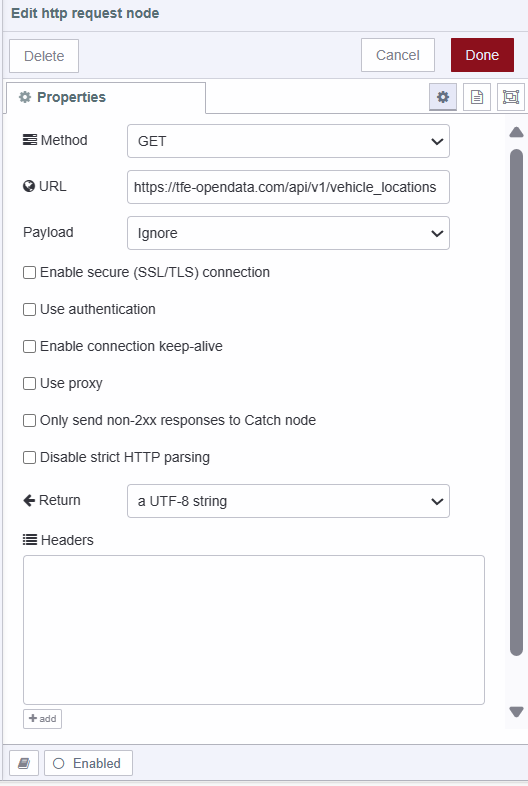
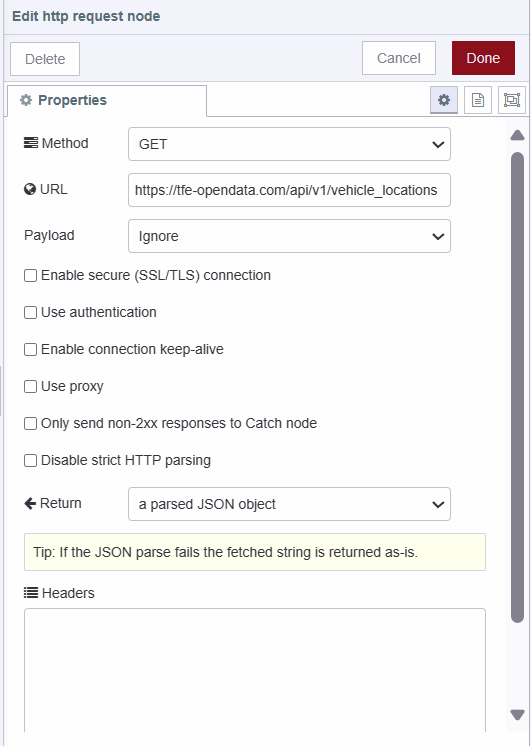
blog: mapping location on dashboard 2.0

Changed region(s): [[0.0, 0.0, 1.0, 1.0], [0.7879, 0.6166, 0.8485, 0.7091], [0.9091, 0.9249, 0.9394, 0.9558]]

diff --git a/src/blog/2024/05/mapping-location-on-dashboard-2.md b/src/blog/2024/05/mapping-location-on-dashboard-2.md
@@ -33,7 +33,7 @@ To render an interactive world map webpage for plotting location data, we will u
 Before plotting locations, we need to obtain the data first. For this purpose, we will utilize the [Edenburg Open Public Transportation API](https://tfe-opendata.readme.io/docs/getting-started). This API provides the live locations of all of Edenburg's public buses and trams, enabling us to access the necessary data for plotting on Worldmap within Dashboard 2.0.
 
 1. Drag an **Inject** node onto the canvas and set the repeat property to a 20-second interval.
-2. Drag an **HTTP request** node onto the canvas, select the **GET** method, and enter `https://tfe-opendata.com/api/v1/vehicle_locations` in the URL field. Since this API is open to all, we don't need to use environment variables. However, for private APIs, it's recommended to use [environment variables](/blog/2023/01/environment-variables-in-node-red) for added security.
+2. Drag an HTTP request node onto the canvas, Dobule-click on it and choose **GET** method, and enter `https://tfe-opendata.com/api/v1/vehicle_locations` in the URL field and select return  as **a parsed json object**. This API is public, so no need for environment variables. For private APIs, consider using [environment variables](/blog/2023/01/environment-variables-in-node-red) for security.
 
 !["Screenshot of the HTTP request node configuration for retrieving data from the API"](./images/mapping-location-on-dashboard-2-http-request-node.png "Screenshot of the HTTP request node configuration for retrieving data from the API"){data-zoomable}
 
@@ -41,17 +41,13 @@ Before plotting locations, we need to obtain the data first. For this purpose, w
 
 ## Formatting Location Data
 
-The public URL we are using returns an array of JSON in string format. We need to parse that JSON array before using it. Additionally, we need to format the data to ensure that we are passing it in the correct format, as the Worldmap custom node requires.
+To ensure compatibility with the Worldmap custom node, we need to format the location data appropriately. 
 
-1. Drag a **JSON** node onto the canvas, and select Action to **Always convert to a javascript object**.
-
-!["Screenshot of the JSON node configuration for parsing string JSON"](./images/mapping-location-on-dashboard-2-json-node.png "Screenshot of the JSON node configuration for parsing string JSON"){data-zoomable}
-
-2. Drag the **Change** node onto the canvas, and set the `msg.payload` to `msg.payload.vehicles`.
+1. Drag the **Change** node onto the canvas, and set the `msg.payload` to `msg.payload.vehicles`.
 
 !["Screenshot of the Change node setting the payload to the vehicles JSON array containing actual vehicle location data"](./images/mapping-location-on-dashboard-2-change-node.png "Screenshot of the Change node setting the payload to the vehicles JSON array containing actual vehicle location data"){data-zoomable}
 
-3. Drag a **Function** node onto the canvas and paste the following code into it.
+2. Drag a **Function** node onto the canvas and paste the following code into it.
 
 ```javascript
 // Extract the payload data from the message
@@ -85,11 +81,11 @@ msg.payload = data;
 return msg;
 ```
 
-4. Connect **JSON** node's output to the **Change** node's input and **Change** the node's output to the **Function** node's input.
+3. Connect **http-request** node's output to the **Change** node's input and the **Change** node's output to the **Function** node's input.
 
 ## Plotting location data on Worldmap
 
-1. Drag a **Worldmap** node onto the canvas. Set the path to "/worldmap" and keep the rest of the settings unchanged, although you can modify other properties according to your preferences.
+1. Drag a **Worldmap** node onto the canvas. Set the path to **/worldmap** and keep the rest of the settings unchanged, although you can modify other properties according to your preferences.
 
 !["Screenshot displaying the configuration of the Worldmap custom node"](./images/mapping-location-on-dashboard-2-worldmap-node.png "Screenshot displaying the configuration of the Worldmap custom node"){data-zoomable}
 
@@ -121,8 +117,7 @@ return msg;
 !["Image displaying live locations of UK public transport on the dashboard"](./images/mapping-location-on-dashboard-2-uk-live-transport.gif "Image displaying live locations of UK public transport on the dashboard"){data-zoomable}
 
 {% renderFlow %}
-[{"id":"0ce7f9f7fca1195d","type":"group","z":"eacc68e72f120b0e","style":{"stroke":"#b2b3bd","stroke-opacity":"1","fill":"#f2f3fb","fill-opacity":"0.5","label":true,"label-position":"nw","color":"#32333b"},"nodes":["2998e233.4ba64e","b6917d83.d1bac","3842171.4d487e8","22aa2cd075c4c57b","a08f0a836ac412a7","7408e0227bfcb677","b4f2e2dabd5b8220","5f0d149d4dc38916","2ff7e9501ad50cd5"],"x":54,"y":99,"w":1232,"h":302},{"id":"2998e233.4ba64e","type":"function","z":"eacc68e72f120b0e","g":"0ce7f9f7fca1195d","name":"format data","func":"// Extract the payload data from the message\nlet data = msg.payload;\n\n// Iterate through each object in the data array\ndata.forEach(obj => {\n    // Rename the 'latitude' property to 'lat' and delete 'latitude'\n    obj.lat = obj.latitude; delete obj.latitude;\n    \n    // Rename the 'longitude' property to 'lon' and delete 'longitude'\n    obj.lon = obj.longitude; delete obj.longitude;\n\n    // Set icon based on vehicle type, if tram, use train icon\n    obj.icon = obj.vehicle_type !== \"tram\" ? obj.vehicle_type : \"fa-train\";\n   \n    // Set icon color to yellow if the vehicle is a tram, else undefined\n    obj.iconColor = obj.vehicle_type !== \"tram\" ? \"red\" : \"yellow\";\n\n    // Set the color of route lines to 'blue'\n    obj.color = \"blue\";\n\n    // Rename 'vehicle_id' property to 'name' and delete 'vehicle_id'\n    obj.name = obj.vehicle_id; delete obj.vehicle_id;\n});\n\n// Set the modified data back to the message payload\nmsg.payload = data;\n\n// Return the modified message\nreturn msg;\n","outputs":1,"timeout":"","noerr":0,"initialize":"","finalize":"","libs":[],"x":1010,"y":220,"wires":[["b4f2e2dabd5b8220"]]},{"id":"b6917d83.d1bac","type":"http request","z":"eacc68e72f120b0e","g":"0ce7f9f7fca1195d","name":"","method":"GET","ret":"txt","paytoqs":"ignore","url":"https://tfe-opendata.com/api/v1/vehicle_locations","tls":"","persist":false,"proxy":"","insecureHTTPParser":false,"authType":"","senderr":false,"headers":[],"x":450,"y":220,"wires":[["7408e0227bfcb677"]]},{"id":"3842171.4d487e8","type":"inject","z":"eacc68e72f120b0e","g":"0ce7f9f7fca1195d","name":"get transporatation data","props":[{"p":"payload"}],"repeat":"5","crontab":"","once":false,"onceDelay":"","topic":"","payload":"","payloadType":"str","x":210,"y":220,"wires":[["b6917d83.d1bac"]]},{"id":"22aa2cd075c4c57b","type":"ui-template","z":"eacc68e72f120b0e","g":"0ce7f9f7fca1195d","group":"15d2dfa55e99ea43","page":"","ui":"","name":"Worldmap iFrame","order":0,"width":"12","height":"12","head":"","format":"<template>\n    <iframe class=\"worldmap\" src=\"/worldmap\"></iframe>\n</template>\n\n<style>\n    .worldmap {\n        width:100%;\n        height:100%;\n    }\n</style>","storeOutMessages":true,"passthru":true,"resendOnRefresh":true,"templateScope":"local","className":"","x":610,"y":360,"wires":[[]]},{"id":"a08f0a836ac412a7","type":"change","z":"eacc68e72f120b0e","g":"0ce7f9f7fca1195d","name":"Set payload","rules":[{"t":"set","p":"payload","pt":"msg","to":"payload.vehicles","tot":"msg"}],"action":"","property":"","from":"","to":"","reg":false,"x":790,"y":220,"wires":[["2998e233.4ba64e"]]},{"id":"7408e0227bfcb677","type":"json","z":"eacc68e72f120b0e","g":"0ce7f9f7fca1195d","name":"","property":"payload","action":"obj","pretty":false,"x":630,"y":220,"wires":[["a08f0a836ac412a7"]]},{"id":"b4f2e2dabd5b8220","type":"worldmap","z":"eacc68e72f120b0e","g":"0ce7f9f7fca1195d","name":"worldmap","lat":"","lon":"","zoom":"","layer":"OSMG","cluster":"","maxage":"","usermenu":"show","layers":"show","panit":"false","panlock":"false","zoomlock":"false","hiderightclick":"false","coords":"mgrs","showgrid":"false","showruler":"false","allowFileDrop":"false","path":"/worldmap","overlist":"DR,CO,RA,DN","maplist":"OSMG,OSMC,EsriC,EsriS,UKOS","mapname":"","mapurl":"","mapopt":"","mapwms":false,"x":1200,"y":220,"wires":[]},{"id":"5f0d149d4dc38916","type":"comment","z":"eacc68e72f120b0e","g":"0ce7f9f7fca1195d","name":"Retrieving, formatting, and plotting location data on a world map.","info":"","x":630,"y":140,"wires":[]},{"id":"2ff7e9501ad50cd5","type":"comment","z":"eacc68e72f120b0e","g":"0ce7f9f7fca1195d","name":"Rendering a map with plotted data on Dashboard 2.0.","info":"","x":620,"y":300,"wires":[]},{"id":"15d2dfa55e99ea43","type":"ui-group","name":"U.K Transportation Live","page":"e098e3047b4a4eaa","width":"12","height":"1","order":-1,"showTitle":false,"className":"","visible":"true","disabled":"false"},{"id":"e098e3047b4a4eaa","type":"ui-page","name":"U.K Transportation Live","ui":"c2e1aa56f50f03bd","path":"/worldmap","icon":"earth","layout":"grid","theme":"129e99574def90a3","order":-1,"className":"","visible":"true","disabled":"false"},{"id":"c2e1aa56f50f03bd","type":"ui-base","name":"Dashboard","path":"/dashboard","showPathInSidebar":false,"navigationStyle":"default"},{"id":"129e99574def90a3","type":"ui-theme","name":"Another Theme","colors":{"surface":"#000000","primary":"#ff4000","bgPage":"#f0f0f0","groupBg":"#ffffff","groupOutline":"#d9d9d9"},"sizes":{"pagePadding":"9px","groupGap":"12px","groupBorderRadius":"9px","widgetGap":"6px"}}]
-
+[{"id":"0ce7f9f7fca1195d","type":"group","z":"eacc68e72f120b0e","style":{"stroke":"#b2b3bd","stroke-opacity":"1","fill":"#f2f3fb","fill-opacity":"0.5","label":true,"label-position":"nw","color":"#32333b"},"nodes":["2998e233.4ba64e","b6917d83.d1bac","3842171.4d487e8","22aa2cd075c4c57b","a08f0a836ac412a7","7408e0227bfcb677","b4f2e2dabd5b8220","5f0d149d4dc38916","2ff7e9501ad50cd5"],"x":114,"y":99,"w":1112,"h":302},{"id":"2998e233.4ba64e","type":"function","z":"eacc68e72f120b0e","g":"0ce7f9f7fca1195d","name":"format data","func":"// Extract the payload data from the message\nlet data = msg.payload;\n\n// Iterate through each object in the data array\ndata.forEach(obj => {\n    // Rename the 'latitude' property to 'lat' and delete 'latitude'\n    obj.lat = obj.latitude; delete obj.latitude;\n    \n    // Rename the 'longitude' property to 'lon' and delete 'longitude'\n    obj.lon = obj.longitude; delete obj.longitude;\n\n    // Set icon based on vehicle type, if tram, use train icon\n    obj.icon = obj.vehicle_type !== \"tram\" ? obj.vehicle_type : \"fa-train\";\n   \n    // Set icon color to yellow if the vehicle is a tram, else undefined\n    obj.iconColor = obj.vehicle_type !== \"tram\" ? \"red\" : \"yellow\";\n\n    // Set the color of route lines to 'blue'\n    obj.color = \"blue\";\n\n    // Rename 'vehicle_id' property to 'name' and delete 'vehicle_id'\n    obj.name = obj.vehicle_id; delete obj.vehicle_id;\n});\n\n// Set the modified data back to the message payload\nmsg.payload = data;\n\n// Return the modified message\nreturn msg;\n","outputs":1,"timeout":"","noerr":0,"initialize":"","finalize":"","libs":[],"x":950,"y":220,"wires":[["b4f2e2dabd5b8220"]]},{"id":"b6917d83.d1bac","type":"http request","z":"eacc68e72f120b0e","g":"0ce7f9f7fca1195d","name":"","method":"GET","ret":"obj","paytoqs":"ignore","url":"https://tfe-opendata.com/api/v1/vehicle_locations","tls":"","persist":false,"proxy":"","insecureHTTPParser":false,"authType":"","senderr":false,"headers":[],"x":510,"y":220,"wires":[["a08f0a836ac412a7"]]},{"id":"3842171.4d487e8","type":"inject","z":"eacc68e72f120b0e","g":"0ce7f9f7fca1195d","name":"get transporatation data","props":[{"p":"payload"}],"repeat":"5","crontab":"","once":false,"onceDelay":"","topic":"","payload":"","payloadType":"str","x":270,"y":220,"wires":[["b6917d83.d1bac"]]},{"id":"22aa2cd075c4c57b","type":"ui-template","z":"eacc68e72f120b0e","g":"0ce7f9f7fca1195d","group":"15d2dfa55e99ea43","page":"","ui":"","name":"Worldmap iFrame","order":0,"width":"12","height":"12","head":"","format":"<template>\n    <iframe class=\"worldmap\" src=\"/worldmap\"></iframe>\n</template>\n\n<style>\n    .worldmap {\n        width:100%;\n        height:100%;\n    }\n</style>","storeOutMessages":true,"passthru":true,"resendOnRefresh":true,"templateScope":"local","className":"","x":610,"y":360,"wires":[[]]},{"id":"a08f0a836ac412a7","type":"change","z":"eacc68e72f120b0e","g":"0ce7f9f7fca1195d","name":"Set payload","rules":[{"t":"set","p":"payload","pt":"msg","to":"payload.vehicles","tot":"msg"}],"action":"","property":"","from":"","to":"","reg":false,"x":730,"y":220,"wires":[["2998e233.4ba64e"]]},{"id":"7408e0227bfcb677","type":"json","z":"eacc68e72f120b0e","g":"0ce7f9f7fca1195d","name":"","property":"payload","action":"obj","pretty":false,"x":630,"y":220,"wires":[[]]},{"id":"b4f2e2dabd5b8220","type":"worldmap","z":"eacc68e72f120b0e","g":"0ce7f9f7fca1195d","name":"worldmap","lat":"","lon":"","zoom":"","layer":"OSMG","cluster":"","maxage":"","usermenu":"show","layers":"show","panit":"false","panlock":"false","zoomlock":"false","hiderightclick":"false","coords":"mgrs","showgrid":"false","showruler":"false","allowFileDrop":"false","path":"/worldmap","overlist":"DR,CO,RA,DN","maplist":"OSMG,OSMC,EsriC,EsriS,UKOS","mapname":"","mapurl":"","mapopt":"","mapwms":false,"x":1140,"y":220,"wires":[]},{"id":"5f0d149d4dc38916","type":"comment","z":"eacc68e72f120b0e","g":"0ce7f9f7fca1195d","name":"Retrieving, formatting, and plotting location data on a world map.","info":"","x":630,"y":140,"wires":[]},{"id":"2ff7e9501ad50cd5","type":"comment","z":"eacc68e72f120b0e","g":"0ce7f9f7fca1195d","name":"Rendering a map with plotted data on Dashboard 2.0.","info":"","x":620,"y":300,"wires":[]},{"id":"15d2dfa55e99ea43","type":"ui-group","name":"U.K Transportation Live","page":"e098e3047b4a4eaa","width":"12","height":"1","order":-1,"showTitle":false,"className":"","visible":"true","disabled":"false"},{"id":"e098e3047b4a4eaa","type":"ui-page","name":"U.K Transportation Live","ui":"c2e1aa56f50f03bd","path":"/worldmap","icon":"earth","layout":"grid","theme":"129e99574def90a3","order":-1,"className":"","visible":"true","disabled":"false"},{"id":"c2e1aa56f50f03bd","type":"ui-base","name":"Dashboard","path":"/dashboard","showPathInSidebar":false,"navigationStyle":"default"},{"id":"129e99574def90a3","type":"ui-theme","name":"Another Theme","colors":{"surface":"#000000","primary":"#ff4000","bgPage":"#f0f0f0","groupBg":"#ffffff","groupOutline":"#d9d9d9"},"sizes":{"pagePadding":"9px","groupGap":"12px","groupBorderRadius":"9px","widgetGap":"6px"}}]
 {% endrenderFlow %}
 
 1. With your flow updated to include the above, click the **Deploy** button in the top-right of the Node-RED Editor.
